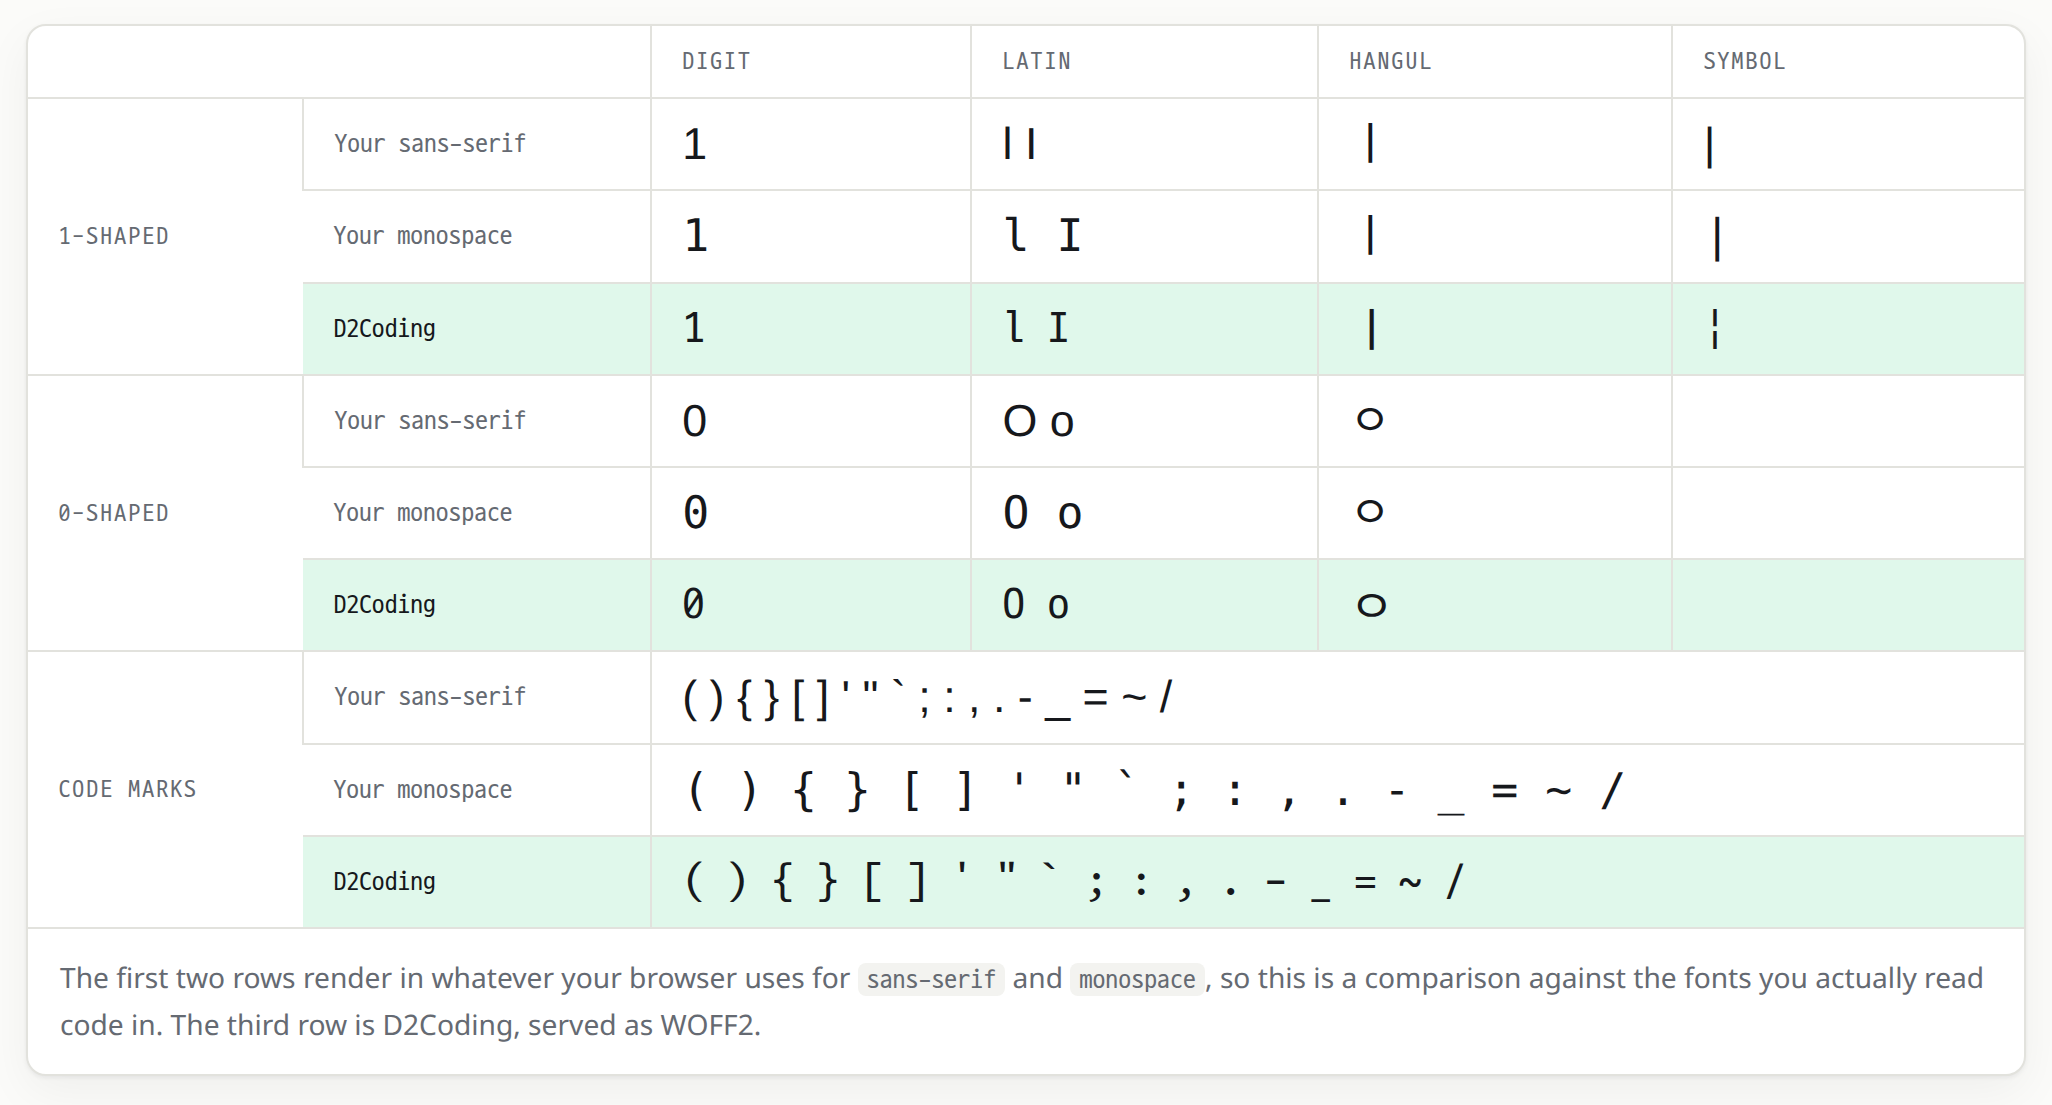
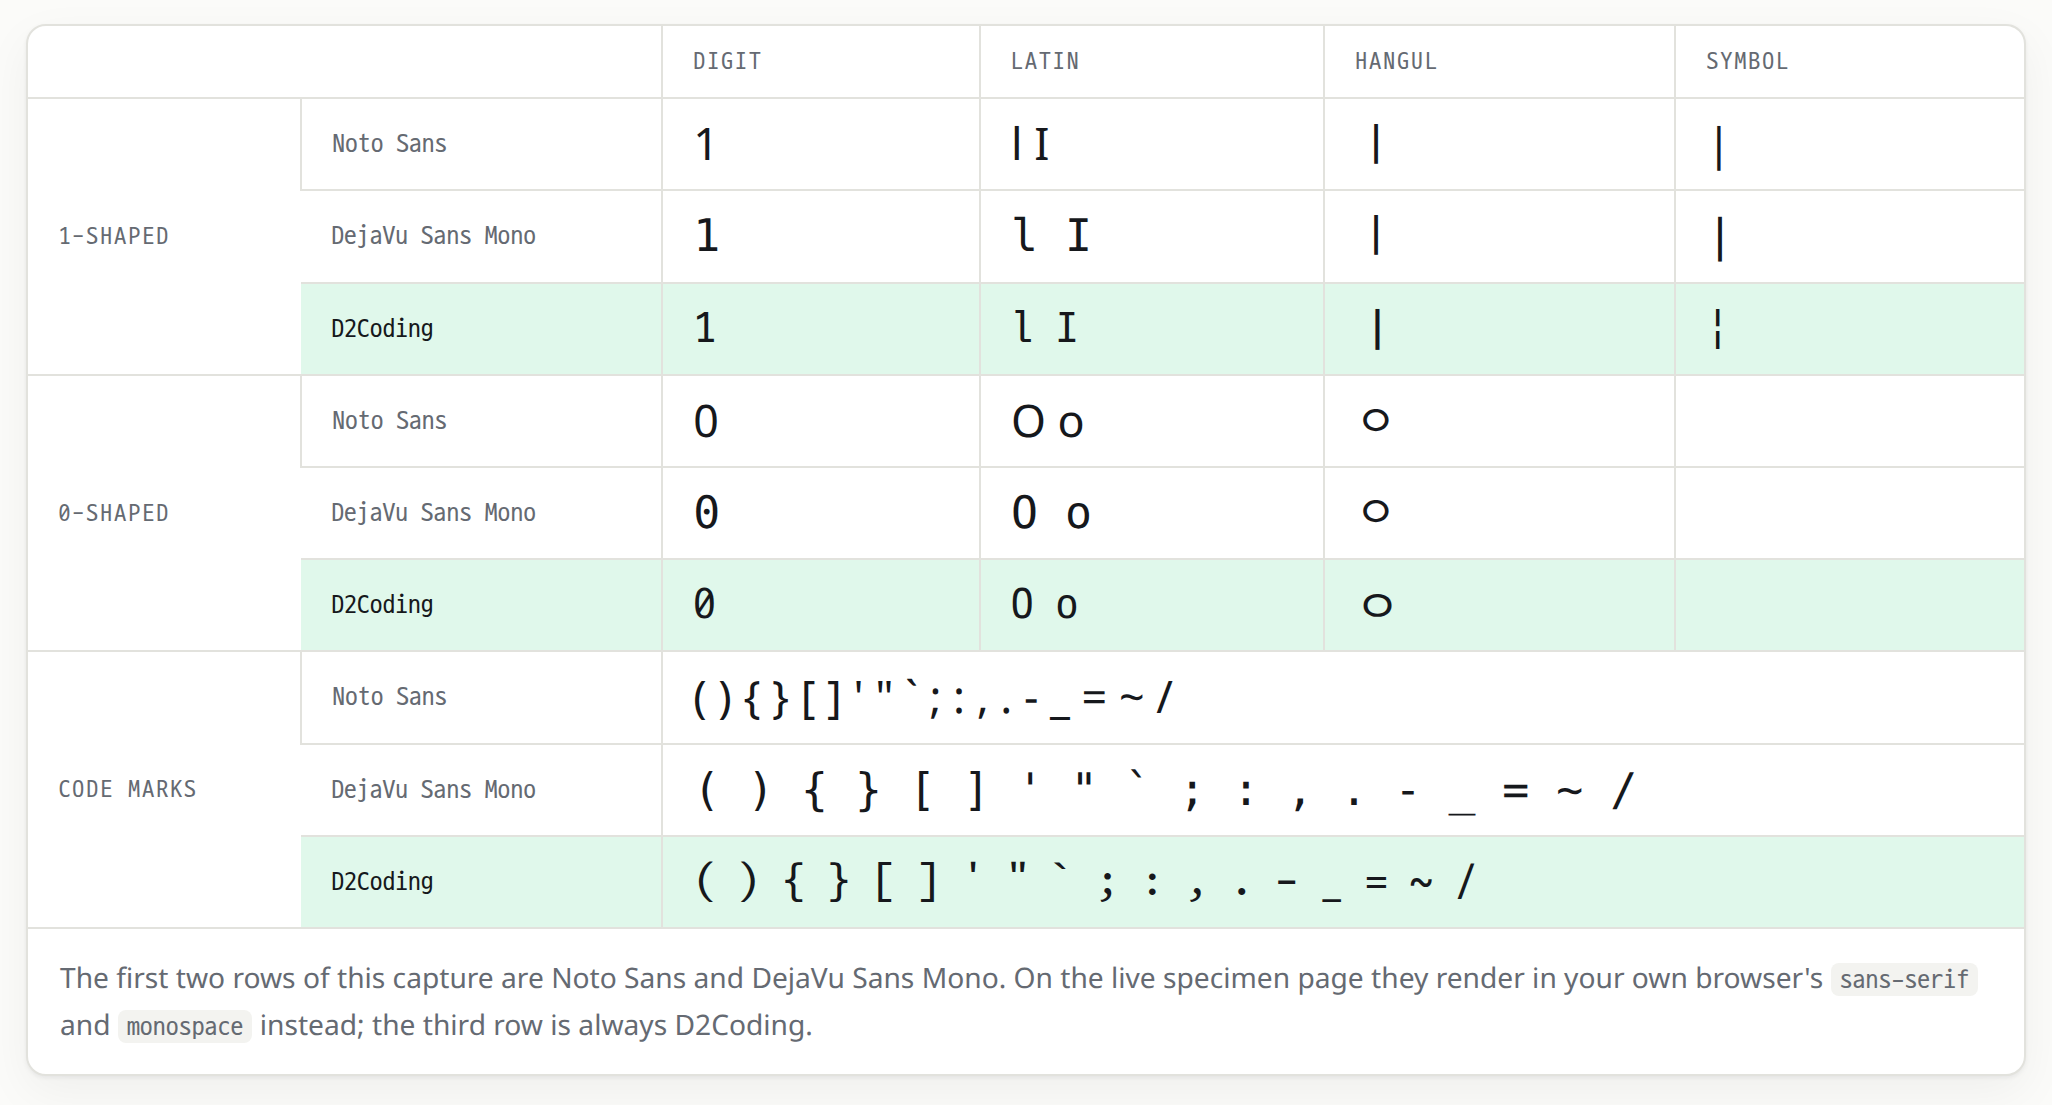
Replace the 2016 Smooth screenshot with a live snippet capture and name the fonts in the legibility capture

diff --git a/site/style.css b/site/style.css
@@ -28,6 +28,10 @@
   --warn: #b3541e;
   --shadow: 0 1px 2px rgba(20, 22, 26, .06), 0 8px 24px rgba(20, 22, 26, .05);
   --radius: 10px;
+  --tok-kw: #8250df;
+  --tok-str: #0a69da;
+  --tok-fn: #953800;
+  --tok-type: #b35900;
 }
 
 @media (prefers-color-scheme: dark) {
@@ -42,6 +46,10 @@
     --accent-soft: #03c75a24;
     --warn: #e39a5c;
     --shadow: 0 1px 2px rgba(0, 0, 0, .4), 0 8px 24px rgba(0, 0, 0, .3);
+    --tok-kw: #b794f6;
+    --tok-str: #6cb6ff;
+    --tok-fn: #f0883e;
+    --tok-type: #e3b341;
   }
 }
 
@@ -56,6 +64,10 @@
   --accent-soft: #03c75a1f;
   --warn: #b3541e;
   --shadow: 0 1px 2px rgba(20, 22, 26, .06), 0 8px 24px rgba(20, 22, 26, .05);
+  --tok-kw: #8250df;
+  --tok-str: #0a69da;
+  --tok-fn: #953800;
+  --tok-type: #b35900;
 }
 
 :root[data-theme="dark"] {
@@ -69,6 +81,10 @@
   --accent-soft: #03c75a24;
   --warn: #e39a5c;
   --shadow: 0 1px 2px rgba(0, 0, 0, .4), 0 8px 24px rgba(0, 0, 0, .3);
+  --tok-kw: #b794f6;
+  --tok-str: #6cb6ff;
+  --tok-fn: #f0883e;
+  --tok-type: #e3b341;
 }
 
 * { box-sizing: border-box; }
@@ -467,6 +483,27 @@ input[type="range"] { width: 100%; accent-color: var(--accent); }
   -webkit-font-smoothing: var(--type-smoothing, antialiased);
 }
 .confuse span { display: block; font-size: .78rem; color: var(--muted); margin-top: .35rem; }
+
+/* ---------- highlighted code sample ---------- */
+
+.code-figure { margin: 1.75rem 0 0; }
+.code-sample { font-size: calc(var(--type-size, 15px) + 2px); }
+.code-sample code {
+  font: inherit;
+  background: none;
+  border-radius: 0;
+  padding: 0;
+}
+.code-figure figcaption {
+  color: var(--muted);
+  font-size: .88rem;
+  margin-top: .6rem;
+}
+.tok-cmt { color: var(--accent); }
+.tok-kw { color: var(--tok-kw); }
+.tok-str { color: var(--tok-str); }
+.tok-fn { color: var(--tok-fn); }
+.tok-type { color: var(--tok-type); }
 
 /* ---------- verify tools ---------- */
 

diff --git a/site/index.html b/site/index.html
@@ -236,6 +236,17 @@
     fall back to another font; it never was. Check any character you like against the real cmap
     below.
   </p>
+
+  <figure class="code-figure" id="smooth">
+    <pre class="specimen code-sample"><code><span class="tok-cmt">// D2 Coding 폰트는 한글과도 잘 어울립니다.</span>
+<span class="tok-kw">public</span> <span class="tok-kw">static</span> <span class="tok-kw">void</span> <span class="tok-fn">main</span>(<span class="tok-type">String</span>[] args) {
+    System.out.println(<span class="tok-str">"반갑다. D2 Coding 폰트!"</span>);
+}</code></pre>
+    <figcaption>
+      The Hangul is based on Nanum Barun Gothic, so a Korean comment or string literal sits as
+      naturally in a line of code as the Latin around it.
+    </figcaption>
+  </figure>
 </section>
 
 <section id="verify" class="section">

diff --git a/README.md b/README.md
@@ -30,16 +30,19 @@ and character spacing stay consistent in any development environment.
 Latin letters, digits and similar looking Hangul symbols were drawn to be easy to tell apart while
 reading code. Hinting was tuned so that the design stays crisp between 8 and 18pt.
 
-[![One-shaped characters, zero-shaped characters and code punctuation in a browser sans-serif, a browser monospace and D2Coding](site/distinction.png)](https://naver.github.io/d2-coding-font/#legibility)
+[![One-shaped characters, zero-shaped characters and code punctuation in Noto Sans, DejaVu Sans Mono and D2Coding](site/distinction.png)](https://naver.github.io/d2-coding-font/#legibility)
 
-The table is live on the [specimen page](https://naver.github.io/d2-coding-font/#legibility): the
-first two rows render in your own browser's fallback fonts, the third row in D2Coding.
+The first two rows of the capture are Noto Sans and DejaVu Sans Mono. On the live
+[specimen page](https://naver.github.io/d2-coding-font/#legibility) the table renders in your own
+browser's fonts instead, with D2Coding always in the third row.
 
 ### Smooth
 Hangul is based on Nanum Barun Gothic, so the letterforms stay soft and blend naturally with the
 Latin design used for code.
 
-![2](https://cloud.githubusercontent.com/assets/6773678/19587989/9a990fae-979d-11e6-82e8-84316b4da96b.JPG)
+[![A syntax-highlighted Java snippet with a Korean comment and a Korean string literal, rendered in D2Coding](site/smooth.png)](https://naver.github.io/d2-coding-font/#smooth)
+
+The same snippet is rendered live on the [specimen page](https://naver.github.io/d2-coding-font/#smooth).
 
 ### Even
 Because it is monospaced, code lines up neatly in any development environment. Line and character

diff --git a/site/README.md b/site/README.md
@@ -16,6 +16,7 @@ og.png              generated (the card shown when the page is shared)
 preview.png         playground screenshot used in the repository README
 alignment.png       grid screenshot used in the repository README
 distinction.png     screenshot of the legibility comparison table, used in the repository README
+smooth.png          screenshot of the highlighted code sample, used in the repository README
 tools/build-data.py regenerates data.js and the web fonts
 tools/og-card.html  source for og.png
 ```
